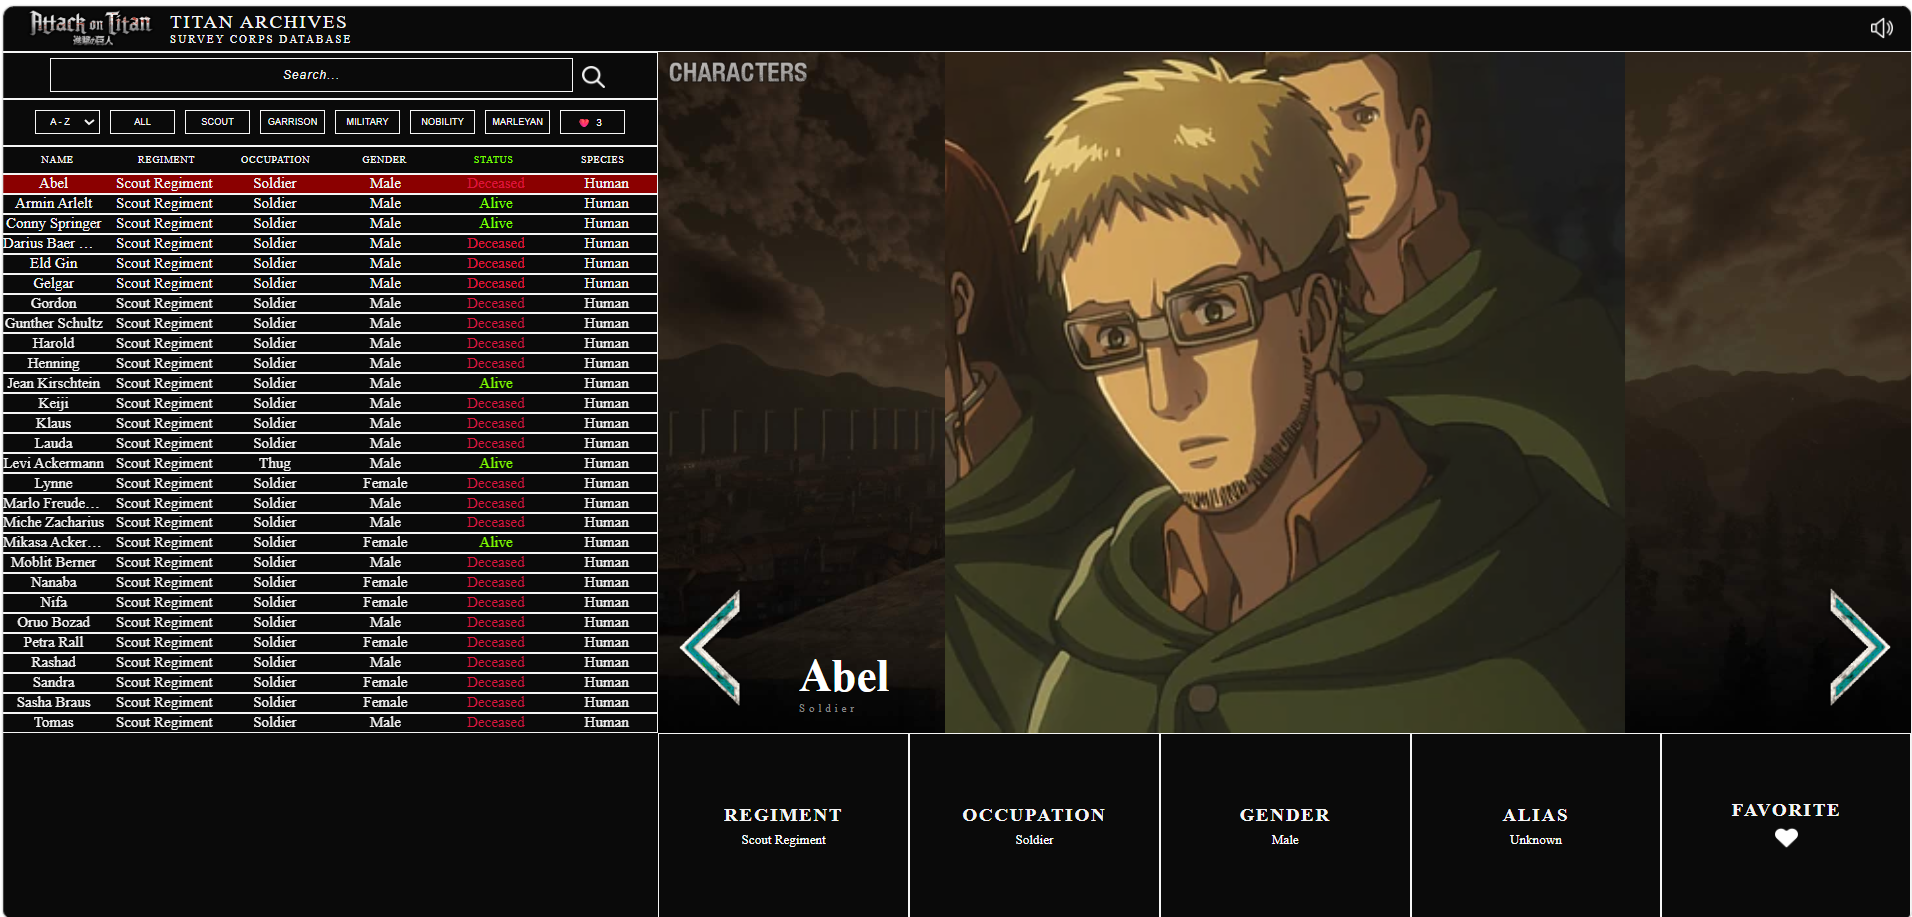
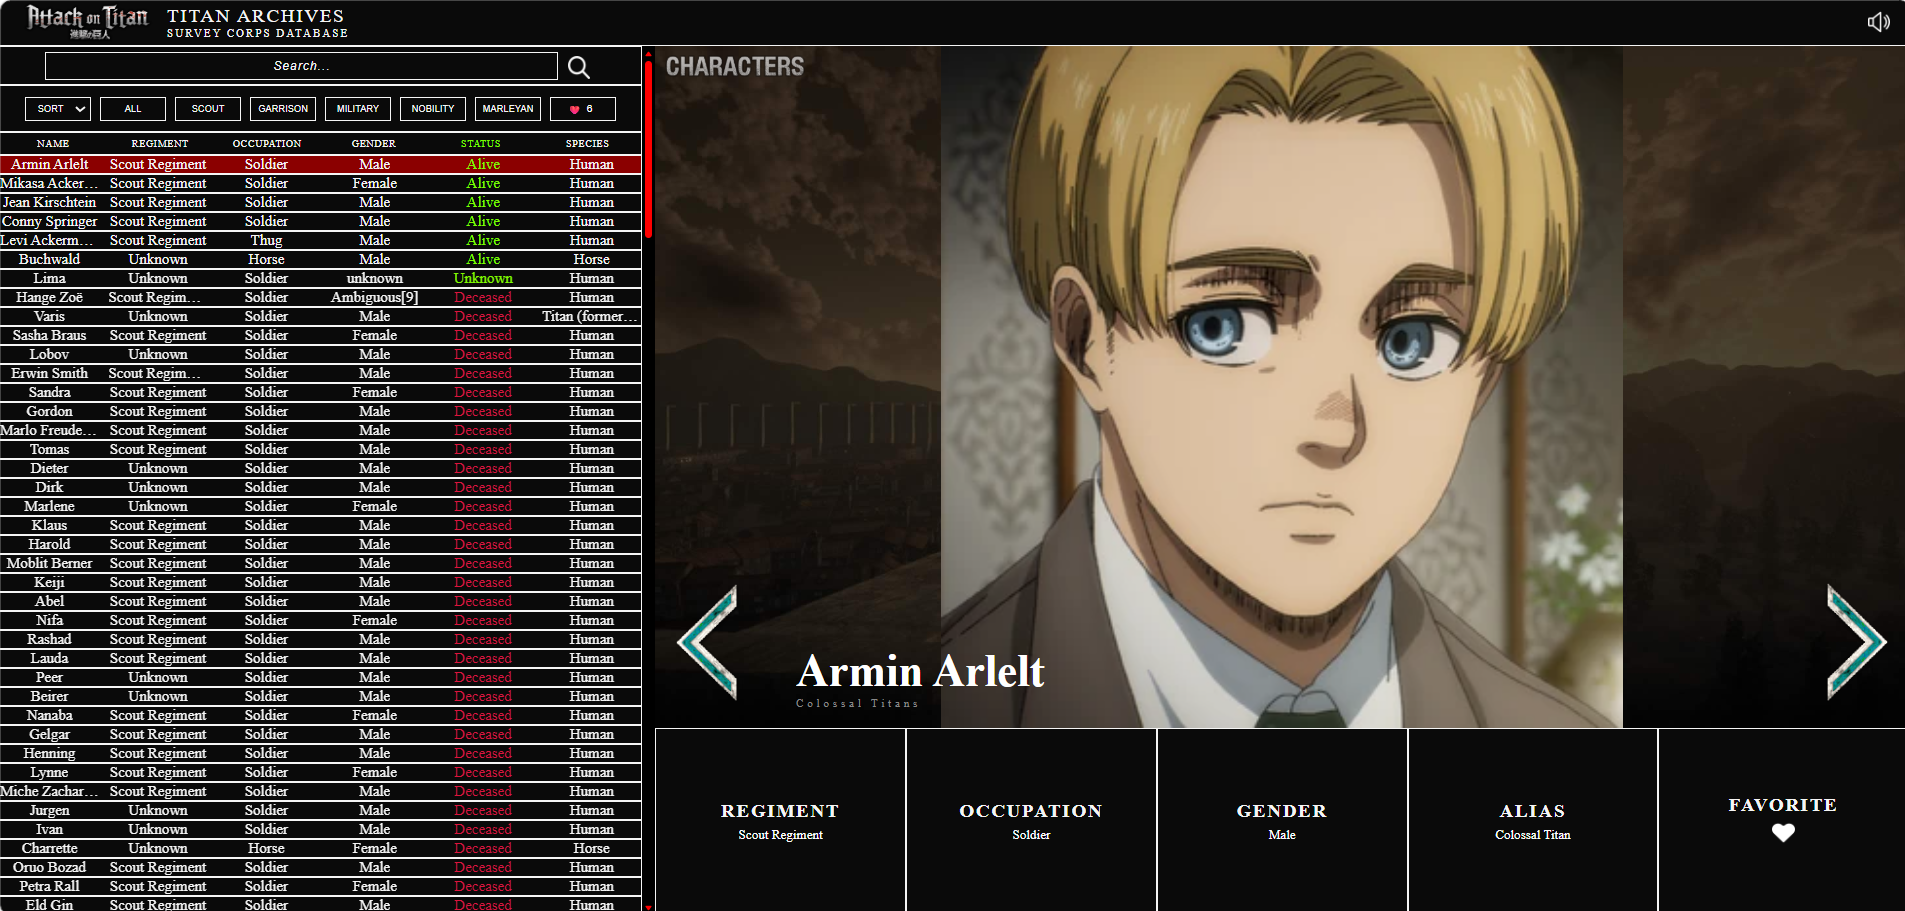
filters en sort

diff --git a/web-advanced-project/src/main.js b/web-advanced-project/src/main.js
@@ -4,7 +4,7 @@
 //https://api.attackontitanapi.com/characters
 
 //TODO: readme + screenshots
-//TODO: knoppen bij sorteren en filter actief laten door een kleurtje 
+//TODO: formulier toevoegen
 
 import './style.scss'
 
@@ -119,6 +119,7 @@ function renderItems(characters) {
     rowObserver.observe(item)   
 
   })
+  selectByIndex(0)
 }
 
 let allCharacters = []
@@ -136,8 +137,9 @@ async function loadCharacters() {
     characters.push(...data.results)
   }
 
-  allCharacters = characters
-  renderItems(allCharacters)
+allCharacters = characters
+renderItems(allCharacters)
+selectByIndex(0)
 }
 
 let currentSort = null
@@ -153,6 +155,7 @@ document.querySelector('.sort-select').addEventListener('change', (e) => {
     : b.name.localeCompare(a.name))
 
   renderItems(list)
+  selectByIndex(0)
 })
 
 function getFilteredList(filter) {
@@ -170,6 +173,12 @@ function getFilteredList(filter) {
 
 document.querySelectorAll('.filter-btn').forEach(btn => {
   btn.addEventListener('click', () => {
+
+    document.querySelectorAll('.filter-btn').forEach(button => {
+      button.classList.remove('active')
+    })
+
+    btn.classList.add('active')
     currentFilter = btn.dataset.filter
 
     let list = getFilteredList(currentFilter)
@@ -183,6 +192,7 @@ document.querySelectorAll('.filter-btn').forEach(btn => {
 
 document.getElementById('search').addEventListener('input', (e) => {
   let searchValue = e.target.value.toLowerCase()
+  
   document.querySelectorAll('.links .item').forEach(item => {
     let name = item.querySelector('.item-name')?.textContent.toLowerCase()
     if (name) {

diff --git a/web-advanced-project/src/style.scss b/web-advanced-project/src/style.scss
@@ -453,6 +453,12 @@ height: 200px;
   scrollbar-color: red black;
 }
 
+.filter-btn.active,
+.sort-btn.active {
+  background-color:red;
+  color: white;
+}
+
 @media (max-width: 768px) {
 
   html, body {
